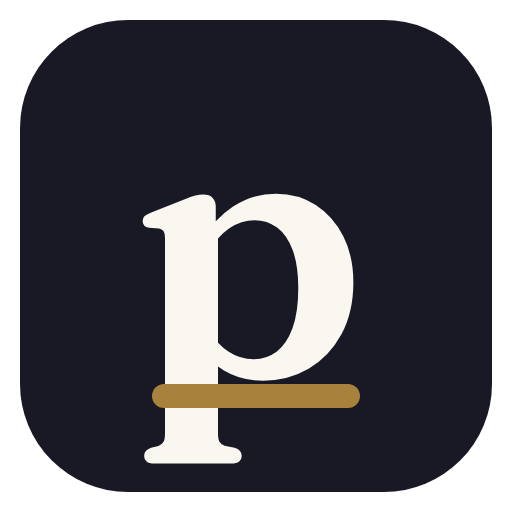
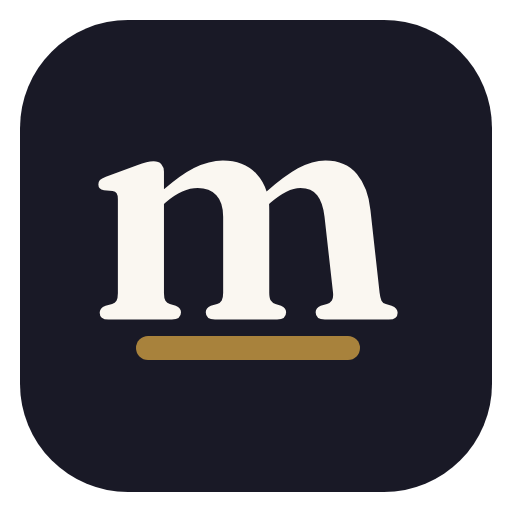
feat(WO-26): rename "Peshi" → "Mukadma" (legaldriver, wave 1)
"Peshi" collided with a live competitor (peshi.app / Bhakha Services) in our exact
vertical. Founder chose "Mukadma" (मुक़दमा = a lawsuit / case). One coordinated
rename while it's cheap. External domain/publicity stay on hold until formal
TM/domain/app-store clearance (tracker B5) — code rename is reversible.

- brand.ts = single source: name "Mukadma", nameDevanagari मुक़दमा, +nameGujarati મુકદમા.
- Metadata + PWA manifest now READ brand.ts (no hardcoded name); login Gujarati
  lockup uses brand.nameGujarati.
- i18n catalogs: Latin brand "Peshi"→"Mukadma", peshi.app→mukadma.app (49 refs).
  IMPORTANT: the Hindi common noun पेशी (= "a hearing", 48 uses) is deliberately
  PRESERVED — only the brand mentions changed. English marketing "peshi" (the word)
  → "hearings" to fully distance from the old name.
- Logo: renamed peshi-mark → brand-mark (name-agnostic); swapped the tile glyph
  p → m (real Fraunces-600 "m", outlined via opentype); rebuilt masters + favicon +
  apple-icon + PWA + maskable + usage sheet. Wordmark auto-updates from brand.ts.
- Fixed mailto: hrefs (were still @peshi.app while the visible text said mukadma).
- Only remaining "Peshi" = the intentional historical note in brand.ts.

Render-verified (nav "m"-tile + "mukadma" wordmark; 512 app icon). Gates green.
Waves 2 (peshi-search repo/Vercel/domain) + 3 (plan docs) are separate — founder.

Claude-Session: https://claude.ai/code/session_01Vvmj9KodoeAZQn3w2EpxH5

Changed region(s): [[0.1875, 0.3125, 0.7812, 0.9062]]

diff --git a/design/logo/icon-render.html b/design/logo/icon-render.html
@@ -1,10 +1,9 @@
 <!doctype html><html><head><meta charset="utf-8"><style>html,body{margin:0;padding:0;background:transparent}#s{display:flex;align-items:center;justify-content:center}</style></head><body><div id="s"></div><script>
-const P="M53.94 51.61L53.94 55.32Q55.96 53.20 58.26 51.65Q63.10 48.41 69.03 48.41Q74.57 48.41 78.94 51.23Q83.31 54.05 85.83 59.06Q88.34 64.06 88.34 70.59Q88.34 78.07 85.36 83.59Q82.37 89.11 77.25 92.14Q72.13 95.17 65.78 95.17Q60.19 95.17 55.87 92.54Q55.16 92.12 54.50 91.65L54.50 108.38Q54.50 109.84 54.90 110.52Q55.30 111.20 56.15 111.44L58.64 111.95Q59.58 112.24 60 112.73Q60.43 113.22 60.43 113.97Q60.43 114.87 59.79 115.39Q59.16 115.90 57.79 115.90L38.57 115.90Q37.25 115.90 36.64 115.39Q36.03 114.87 36.03 113.97Q36.03 113.27 36.46 112.78Q36.88 112.28 37.77 111.95L39.60 111.48Q40.45 111.20 40.85 110.52Q41.25 109.84 41.25 108.38L41.25 59.50Q41.25 58.33 40.90 57.81Q40.54 57.29 39.75 57.15L37.25 56.96Q36.41 56.78 36.03 56.35Q35.66 55.93 35.66 55.27Q35.66 54.47 36.10 54.05Q36.55 53.63 37.82 53.11L46.04 49.87Q47.74 49.16 48.84 48.90Q49.94 48.65 50.79 48.65Q52.39 48.65 53.16 49.47Q53.94 50.29 53.94 51.61M54.50 59.60L54.50 85.68Q55.77 87.04 57.18 87.94Q60.05 89.82 63.39 89.82Q66.63 89.82 69.14 87.94Q71.66 86.06 73.12 82.09Q74.57 78.11 74.57 72Q74.57 66.27 73.16 62.51Q71.75 58.75 69.28 56.89Q66.82 55.04 63.67 55.04Q60.28 55.04 57.32 57.06Q55.87 58.09 54.50 59.60";
+const P="M40.99 42.90L40.99 47.33Q45.25 43.64 48.49 42Q52.30 40.12 55.71 40.12Q61 40.12 64.15 43.48Q65.87 45.32 66.65 47.86Q71.16 43.93 74.48 42.08Q78.09 40.12 81.37 40.12Q86.42 40.12 89.22 43.50Q92.03 46.88 92.61 52.50L94.90 73.20Q95.07 74.56 95.37 75.17Q95.68 75.79 96.46 76.03L97.90 76.44Q98.67 76.73 99.04 77.16Q99.41 77.59 99.41 78.20Q99.41 78.98 98.88 79.43Q98.35 79.89 97.20 79.89L81.21 79.89Q78.91 79.89 78.91 78.08Q78.91 76.97 80.18 76.44L81.74 76.03Q82.56 75.74 82.97 75.13Q83.38 74.51 83.26 73.20L81.13 54.18Q80.72 50.61 79.30 48.81Q77.89 47 75.10 47Q73.46 47 71.61 47.93Q69.77 48.85 67.68 50.61L67.27 50.98Q67.31 51.72 67.31 52.50L67.31 73.20Q67.31 74.56 67.70 75.15Q68.09 75.74 68.87 76.03L70.26 76.44Q71.53 77.02 71.53 78.08Q71.53 79.89 69.28 79.89L53.74 79.89Q51.44 79.89 51.44 78.08Q51.44 76.97 52.71 76.44L54.27 76.03Q55.09 75.74 55.44 75.13Q55.79 74.51 55.79 73.20L55.79 54.18Q55.79 50.57 54.09 48.79Q52.39 47 49.43 47Q47.59 47 45.58 47.86Q43.57 48.73 41.40 50.61L40.99 50.98L40.99 73.33Q40.99 74.60 41.36 75.17Q41.73 75.74 42.46 76.03L43.94 76.44Q45.25 76.97 45.25 78.08Q45.25 79.89 42.96 79.89L27.13 79.89Q25.98 79.89 25.45 79.43Q24.92 78.98 24.92 78.20Q24.92 77.59 25.26 77.16Q25.61 76.73 26.39 76.44L28.03 76.03Q28.77 75.74 29.12 75.17Q29.47 74.60 29.47 73.33L29.47 49.83Q29.47 48.77 29.16 48.32Q28.85 47.86 28.15 47.74L25.98 47.58Q25.24 47.41 24.92 47.04Q24.59 46.68 24.59 46.10Q24.59 45.40 24.98 44.99Q25.37 44.58 26.47 44.17L34.10 41.39Q35.66 40.81 36.60 40.57Q37.54 40.32 38.40 40.32Q39.68 40.32 40.33 41.04Q40.99 41.76 40.99 42.90";
 const q=new URLSearchParams(location.search),size=+(q.get("size")||512),v=q.get("v")||"dark",s=document.getElementById("s");
-s.style.width=size+"px";s.style.height=size+"px";
-let svg;
-if(v==="maskable"){svg='<svg width="'+size+'" height="'+size+'" viewBox="0 0 512 512" xmlns="http://www.w3.org/2000/svg"><rect width="512" height="512" fill="#191926"/><g transform="translate(96 96) scale(2.5)"><path d="'+P+'" fill="#FAF7F1"/><rect x="38" y="96" width="52" height="6" rx="3" fill="#A8823C"/></g></svg>';}
+s.style.width=size+"px";s.style.height=size+"px";let svg;
+if(v==="maskable"){svg='<svg width="'+size+'" height="'+size+'" viewBox="0 0 512 512" xmlns="http://www.w3.org/2000/svg"><rect width="512" height="512" fill="#191926"/><g transform="translate(96 96) scale(2.5)"><path d="'+P+'" fill="#FAF7F1"/><rect x="34" y="84" width="56" height="6" rx="3" fill="#A8823C"/></g></svg>';}
 else{const tile=v==="light"?"#FAF7F1":"#191926",glyph=v==="light"?"#191926":"#FAF7F1",bd=v==="light"?'stroke="#191926" stroke-opacity="0.12" stroke-width="2"':"";
-svg='<svg width="'+size+'" height="'+size+'" viewBox="0 0 128 128" xmlns="http://www.w3.org/2000/svg"><rect x="5" y="5" width="118" height="118" rx="27" fill="'+tile+'" '+bd+'/><path d="'+P+'" fill="'+glyph+'"/><rect x="38" y="96" width="52" height="6" rx="3" fill="#A8823C"/></svg>';}
+svg='<svg width="'+size+'" height="'+size+'" viewBox="0 0 128 128" xmlns="http://www.w3.org/2000/svg"><rect x="5" y="5" width="118" height="118" rx="27" fill="'+tile+'" '+bd+'/><path d="'+P+'" fill="'+glyph+'"/><rect x="34" y="84" width="56" height="6" rx="3" fill="#A8823C"/></svg>';}
 s.innerHTML=svg;document.body.setAttribute("data-ready","1");
 </script></body></html>

diff --git a/src/components/brand-mark.tsx b/src/components/brand-mark.tsx
@@ -1,0 +1,40 @@
+// Brand logo mark — the letter tile (WO-05 / WO-26): a lowercase Fraunces mark
+// letter (outlined, font-independent) over the brass hearing-date underline, in
+// a rounded tile. Name-agnostic filename so a rebrand only swaps the glyph.
+// Two colourways:
+//   tone="light" → paper tile + ink glyph (for dark surfaces)
+//   tone="dark"  → ink tile + paper glyph (for light surfaces / high contrast)
+// The glyph is the real Fraunces 600 letter converted to a path so it renders
+// identically without the font. Purely presentational.
+
+// Fraunces 600 lowercase "m", centred in the 128 viewBox, baseline ~80.
+const GLYPH_PATH =
+  "M40.99 42.90L40.99 47.33Q45.25 43.64 48.49 42Q52.30 40.12 55.71 40.12Q61 40.12 64.15 43.48Q65.87 45.32 66.65 47.86Q71.16 43.93 74.48 42.08Q78.09 40.12 81.37 40.12Q86.42 40.12 89.22 43.50Q92.03 46.88 92.61 52.50L94.90 73.20Q95.07 74.56 95.37 75.17Q95.68 75.79 96.46 76.03L97.90 76.44Q98.67 76.73 99.04 77.16Q99.41 77.59 99.41 78.20Q99.41 78.98 98.88 79.43Q98.35 79.89 97.20 79.89L81.21 79.89Q78.91 79.89 78.91 78.08Q78.91 76.97 80.18 76.44L81.74 76.03Q82.56 75.74 82.97 75.13Q83.38 74.51 83.26 73.20L81.13 54.18Q80.72 50.61 79.30 48.81Q77.89 47 75.10 47Q73.46 47 71.61 47.93Q69.77 48.85 67.68 50.61L67.27 50.98Q67.31 51.72 67.31 52.50L67.31 73.20Q67.31 74.56 67.70 75.15Q68.09 75.74 68.87 76.03L70.26 76.44Q71.53 77.02 71.53 78.08Q71.53 79.89 69.28 79.89L53.74 79.89Q51.44 79.89 51.44 78.08Q51.44 76.97 52.71 76.44L54.27 76.03Q55.09 75.74 55.44 75.13Q55.79 74.51 55.79 73.20L55.79 54.18Q55.79 50.57 54.09 48.79Q52.39 47 49.43 47Q47.59 47 45.58 47.86Q43.57 48.73 41.40 50.61L40.99 50.98L40.99 73.33Q40.99 74.60 41.36 75.17Q41.73 75.74 42.46 76.03L43.94 76.44Q45.25 76.97 45.25 78.08Q45.25 79.89 42.96 79.89L27.13 79.89Q25.98 79.89 25.45 79.43Q24.92 78.98 24.92 78.20Q24.92 77.59 25.26 77.16Q25.61 76.73 26.39 76.44L28.03 76.03Q28.77 75.74 29.12 75.17Q29.47 74.60 29.47 73.33L29.47 49.83Q29.47 48.77 29.16 48.32Q28.85 47.86 28.15 47.74L25.98 47.58Q25.24 47.41 24.92 47.04Q24.59 46.68 24.59 46.10Q24.59 45.40 24.98 44.99Q25.37 44.58 26.47 44.17L34.10 41.39Q35.66 40.81 36.60 40.57Q37.54 40.32 38.40 40.32Q39.68 40.32 40.33 41.04Q40.99 41.76 40.99 42.90";
+
+export function BrandMark({
+  size = 28,
+  tone = "dark",
+  className,
+  title = "Mukadma",
+}: {
+  size?: number;
+  tone?: "light" | "dark";
+  className?: string;
+  title?: string;
+}) {
+  const tile = tone === "light" ? "#FAF7F1" : "#191926";
+  const glyph = tone === "light" ? "#191926" : "#FAF7F1";
+  return (
+    <svg width={size} height={size} viewBox="0 0 128 128" role="img" aria-label={title} className={className}>
+      <rect
+        x="5" y="5" width="118" height="118" rx="27"
+        fill={tile}
+        stroke={tone === "light" ? "#191926" : "none"}
+        strokeOpacity={tone === "light" ? 0.12 : 0}
+        strokeWidth="2"
+      />
+      <path d={GLYPH_PATH} fill={glyph} />
+      <rect x="34" y="84" width="56" height="6" rx="3" fill="#A8823C" />
+    </svg>
+  );
+}

diff --git a/src/app/login/page.tsx b/src/app/login/page.tsx
@@ -1,7 +1,7 @@
 import { getTranslations } from "next-intl/server";
 import { signIn, signUp } from "./actions";
 import { Icon, type IconName } from "@/components/icons";
-import { PeshiMark } from "@/components/peshi-mark";
+import { BrandMark } from "@/components/brand-mark";
 import { brand } from "@/lib/brand";
 
 const TRUST: [IconName, string][] = [
@@ -21,12 +21,12 @@ export default async function LoginPage({
       {/* Brand panel — ink plate, one line of brass. No gradients. */}
       <section className="relative hidden flex-col justify-between overflow-hidden bg-ec-ink p-12 text-ec-paper lg:flex">
         <div className="relative flex items-center gap-2.5">
-          <PeshiMark size={30} tone="light" />
+          <BrandMark size={30} tone="light" />
           <span className="ec-underline font-display text-2xl font-semibold lowercase tracking-tight text-ec-paper">{brand.name}</span>
         </div>
 
         <div className="relative max-w-md">
-          <p lang="gu" className="mb-3 font-display text-7xl font-medium leading-none text-ec-paper/10">પેશી</p>
+          <p lang="gu" className="mb-3 font-display text-7xl font-medium leading-none text-ec-paper/10">{brand.nameGujarati}</p>
           <h1 className="font-display text-4xl font-medium leading-[1.15] text-ec-paper">{t("brand.headline")}</h1>
           <p className="mt-4 text-ec-paper/70">{t("brand.sub")}</p>
           <ul className="mt-8 space-y-3">
@@ -48,7 +48,7 @@ export default async function LoginPage({
       <section className="flex items-center justify-center px-6 py-12">
         <div className="w-full max-w-sm animate-fade-in">
           <div className="mb-8 flex items-center gap-2.5 lg:hidden">
-            <PeshiMark size={30} tone="dark" />
+            <BrandMark size={30} tone="dark" />
             <span className="ec-underline font-display text-2xl font-semibold lowercase tracking-tight text-ec-ink">{brand.name}</span>
           </div>
 

diff --git a/src/components/marketing-shell.tsx b/src/components/marketing-shell.tsx
@@ -1,7 +1,7 @@
 import Link from "next/link";
 import { getTranslations } from "next-intl/server";
 import { brand } from "@/lib/brand";
-import { PeshiMark } from "@/components/peshi-mark";
+import { BrandMark } from "@/components/brand-mark";
 import { LanguageSwitcher } from "@/components/language-switcher";
 
 // Shared chrome for the public secondary pages (legal/company). Editorial
@@ -14,7 +14,7 @@ export async function MarketingShell({ title, subtitle, children }: { title: str
       <header className="border-b border-ec-hair">
         <div className="mx-auto flex max-w-3xl items-center gap-4 px-6 py-4">
           <Link href="/" className="flex items-center gap-2.5">
-            <PeshiMark size={28} tone="dark" />
+            <BrandMark size={28} tone="dark" />
             <span className="ec-underline font-display text-2xl font-semibold lowercase tracking-tight">{brand.name}</span>
           </Link>
           <div className="ml-auto flex items-center gap-3">
@@ -33,7 +33,7 @@ export async function MarketingShell({ title, subtitle, children }: { title: str
       <footer className="border-t border-ec-hair bg-ec-paper-3">
         <div className="mx-auto max-w-3xl px-6 py-8">
           <Link href="/" className="inline-flex items-center gap-2">
-            <PeshiMark size={22} tone="dark" />
+            <BrandMark size={22} tone="dark" />
             <span className="ec-underline font-display text-lg font-semibold lowercase tracking-tight">{brand.name}</span>
           </Link>
           <p className="mt-3 text-[11.5px] leading-relaxed text-ec-ink-3">{tl("footer.compliance")}</p>

diff --git a/src/lib/brand.ts b/src/lib/brand.ts
@@ -1,15 +1,19 @@
-// Brand config (WO-03) — the ONE place the product name/wordmark lives, so
-// nothing user-facing hardcodes it. Name locked to "Peshi" by founder decision
-// B1 (2026-07-03); TM search still advisable before external launch. See
-// plan/brand/BRAND.md.
+// Brand config — the ONE place the product name/wordmark lives, so nothing
+// user-facing hardcodes it. Name = "Mukadma" (मुक़दमा = a lawsuit / case),
+// founder decision 2026-07-03, replacing "Peshi" after a name collision with a
+// live competitor at peshi.app. Formal IP-India TM (class 9/42/45) + domain +
+// app-store clearance still pending before external launch — see WO-26 /
+// tracker B5. Keep this the single source; never hardcode the name elsewhere.
 export const brand = {
-  /** Product name — locked (tracker B1, 2026-07-03). */
-  name: "Peshi",
-  /** Devanagari lockup (पेशी = a hearing / one's court date). */
-  nameDevanagari: "पेशी",
+  /** Product name (canonical romanization = "Mukadma" per brand/NAMING.md). */
+  name: "Mukadma",
+  /** Devanagari lockup (मुक़दमा = a lawsuit / case). */
+  nameDevanagari: "मुक़दमा",
+  /** Gujarati lockup. */
+  nameGujarati: "મુકદમા",
   /** One-liner; canonical copy in BRAND.md. */
   tagline: "The operating system for Indian lawyers.",
-  /** Name is decided — Wave 4 (landing + full brand application) is unblocked. */
+  /** Design/wordmark applied. External launch still gated on TM/domain clearance (B5). */
   isFinal: true,
 } as const;
 

diff --git a/src/components/landing.tsx b/src/components/landing.tsx
@@ -2,7 +2,7 @@ import Link from "next/link";
 import { getTranslations } from "next-intl/server";
 import { brand } from "@/lib/brand";
 import { Icon } from "@/components/icons";
-import { PeshiMark } from "@/components/peshi-mark";
+import { BrandMark } from "@/components/brand-mark";
 import { LanguageSwitcher } from "@/components/language-switcher";
 
 // Public marketing landing (WO-03 Wave 4), from design/ui-concept.html Mockup A.
@@ -35,7 +35,7 @@ export async function Landing() {
       {/* nav */}
       <nav className="mx-auto flex max-w-6xl items-center gap-6 px-6 py-4">
         <span className="flex items-center gap-2.5">
-          <PeshiMark size={30} tone="dark" />
+          <BrandMark size={30} tone="dark" />
           <span className="ec-underline font-display text-2xl font-semibold lowercase tracking-tight">{brand.name}</span>
         </span>
         <div className="ml-6 hidden gap-1 sm:flex">
@@ -141,7 +141,7 @@ export async function Landing() {
         <div className="mx-auto flex max-w-6xl flex-wrap gap-8 px-6 py-10">
           <div className="max-w-xs">
             <span className="flex items-center gap-2">
-              <PeshiMark size={24} tone="dark" />
+              <BrandMark size={24} tone="dark" />
               <span className="ec-underline font-display text-xl font-semibold lowercase tracking-tight">{brand.name}</span>
             </span>
             <p className="mt-3 text-[13px] leading-relaxed text-ec-ink-3">{t("footer.tagline")}</p>

diff --git a/src/app/dashboard/layout.tsx b/src/app/dashboard/layout.tsx
@@ -6,7 +6,7 @@ import { NavLinks } from "./nav";
 import { MobileNav } from "./mobile-nav";
 import { CommandPalette } from "@/components/command-palette";
 import { LanguageSwitcher } from "@/components/language-switcher";
-import { PeshiMark } from "@/components/peshi-mark";
+import { BrandMark } from "@/components/brand-mark";
 import { brand } from "@/lib/brand";
 
 export default async function DashboardLayout({ children }: { children: React.ReactNode }) {
@@ -28,8 +28,8 @@ export default async function DashboardLayout({ children }: { children: React.Re
     <div className="flex min-h-screen bg-ec-paper text-ec-ink">
       <aside className="sticky top-0 hidden h-screen w-64 shrink-0 flex-col border-r border-ec-hair bg-ec-paper px-4 py-5 md:flex">
         <div className="flex items-center gap-2.5 px-2">
-          {/* Mark (the "p" tile) + typographic wordmark — the "date underline" motif. */}
-          <PeshiMark size={32} tone="dark" className="shrink-0" />
+          {/* Brand mark (letter tile) + typographic wordmark — the "date underline" motif. */}
+          <BrandMark size={32} tone="dark" className="shrink-0" />
           <div className="leading-tight">
             <p className="ec-underline inline-block font-display text-2xl font-semibold lowercase tracking-tight text-ec-ink">
               {brand.name}

diff --git a/src/app/data-corrections/page.tsx b/src/app/data-corrections/page.tsx
@@ -1,7 +1,7 @@
 import { MarketingShell, Prose, DraftNotice } from "@/components/marketing-shell";
 import { getTranslations } from "next-intl/server";
 
-export const metadata = { title: "Data corrections & takedowns · Peshi" };
+export const metadata = { title: "Data corrections & takedowns · Mukadma" };
 
 // Compliance-critical: the correction/takedown workflow (07-COMPLIANCE §3).
 export default async function DataCorrectionsPage() {
@@ -20,7 +20,7 @@ export default async function DataCorrectionsPage() {
         </ul>
 
         <h2>{t("howToRaise.heading")}</h2>
-        <p>{t.rich("howToRaise.body", { email: (c) => <a href="mailto:grievance@peshi.app">{c}</a> })}</p>
+        <p>{t.rich("howToRaise.body", { email: (c) => <a href="mailto:grievance@mukadma.app">{c}</a> })}</p>
 
         <h2>{t("whatHappensNext.heading")}</h2>
         <ul>
@@ -33,7 +33,7 @@ export default async function DataCorrectionsPage() {
         <p>{t.rich("howWeAct.body", { b: (c) => <strong>{c}</strong> })}</p>
 
         <h2>{t("grievanceOfficer.heading")}</h2>
-        <p>{t.rich("grievanceOfficer.body", { email: (c) => <a href="mailto:grievance@peshi.app">{c}</a> })}</p>
+        <p>{t.rich("grievanceOfficer.body", { email: (c) => <a href="mailto:grievance@mukadma.app">{c}</a> })}</p>
       </Prose>
     </MarketingShell>
   );

diff --git a/design/logo/usage.html b/design/logo/usage.html
@@ -61,9 +61,9 @@
 
   <h2>Files</h2>
   <ul>
-    <li><b>In-app:</b> <code>&lt;PeshiMark tone="dark|light" size /&gt;</code> — renders live Fraunces via <code>var(--f-display)</code>. Wired into nav, marketing header/footer, landing, login.</li>
+    <li><b>In-app:</b> <code>&lt;BrandMark tone="dark|light" size /&gt;</code> — renders live Fraunces via <code>var(--f-display)</code>. Wired into nav, marketing header/footer, landing, login.</li>
     <li><b>Icons (reliable raster source):</b> <code>public/icons/{favicon-16,32,48, icon-192, icon-512, icon-maskable-512}.png</code> + <code>src/app/{icon,apple-icon}.png</code> + <code>src/app/manifest.ts</code>.</li>
-    <li><b>Masters:</b> <code>public/logo/peshi-mark-{dark,light,mono}.svg</code> — the “p” uses <code>font-family:Fraunces</code>; <b>outline the glyph</b> (fonttools/Illustrator) before any external handoff or print.</li>
+    <li><b>Masters:</b> <code>public/logo/brand-mark-{dark,light,mono}.svg</code> — the “p” uses <code>font-family:Fraunces</code>; <b>outline the glyph</b> (fonttools/Illustrator) before any external handoff or print.</li>
     <li><b>Wordmark:</b> Fraunces, lowercase, semibold, with the brass hearing-date underline (<code>.ec-underline</code>).</li>
   </ul>
 </div></body></html>

diff --git a/src/app/layout.tsx b/src/app/layout.tsx
@@ -2,6 +2,7 @@ import type { Metadata } from "next";
 import { Inter, Fraunces, Noto_Sans_Devanagari, Noto_Sans_Gujarati } from "next/font/google";
 import { NextIntlClientProvider } from "next-intl";
 import { getLocale, getMessages } from "next-intl/server";
+import { brand } from "@/lib/brand";
 import "./globals.css";
 
 const sans = Inter({ subsets: ["latin"], variable: "--font-sans", display: "swap" });
@@ -26,14 +27,14 @@ const notoGuj = Noto_Sans_Gujarati({
 });
 
 export const metadata: Metadata = {
-  title: "Peshi — the operating system for Indian lawyers",
+  title: `${brand.name} — ${brand.tagline.replace(/\.$/, "")}`,
   description:
     "Track cases by CNR, get tomorrow's cause list on WhatsApp before 8pm, and run your whole practice — built for Indian courts.",
   openGraph: {
-    title: "Peshi — the operating system for Indian lawyers",
+    title: `${brand.name} — ${brand.tagline.replace(/\.$/, "")}`,
     description:
       "Cause lists, cases, clients and invoices — synced from the court record by CNR. Built for Indian courts, free to begin.",
-    siteName: "Peshi",
+    siteName: brand.name,
     locale: "en_IN",
     type: "website",
   },

diff --git a/src/app/contact/page.tsx b/src/app/contact/page.tsx
@@ -2,7 +2,7 @@ import { getTranslations } from "next-intl/server";
 
 import { MarketingShell, Prose } from "@/components/marketing-shell";
 
-export const metadata = { title: "Contact · Peshi" };
+export const metadata = { title: "Contact · Mukadma" };
 
 export default async function ContactPage() {
   const t = await getTranslations("contact");
@@ -13,13 +13,13 @@ export default async function ContactPage() {
           <li>
             {t.rich("support", {
               b: (c) => <strong>{c}</strong>,
-              mail: (c) => <a href="mailto:hello@peshi.app">{c}</a>,
+              mail: (c) => <a href="mailto:hello@mukadma.app">{c}</a>,
             })}
           </li>
           <li>
             {t.rich("grievances", {
               b: (c) => <strong>{c}</strong>,
-              mail: (c) => <a href="mailto:grievance@peshi.app">{c}</a>,
+              mail: (c) => <a href="mailto:grievance@mukadma.app">{c}</a>,
               corrections: (c) => <a href="/data-corrections">{c}</a>,
             })}
           </li>

diff --git a/src/app/privacy/page.tsx b/src/app/privacy/page.tsx
@@ -1,7 +1,7 @@
 import { MarketingShell, Prose, DraftNotice } from "@/components/marketing-shell";
 import { getTranslations } from "next-intl/server";
 
-export const metadata = { title: "Privacy · Peshi" };
+export const metadata = { title: "Privacy · Mukadma" };
 
 export default async function PrivacyPage() {
   const t = await getTranslations("privacy");
@@ -26,7 +26,7 @@ export default async function PrivacyPage() {
         <p>
           {t.rich("rightsBody", {
             corrections: (c) => <a href="/data-corrections">{c}</a>,
-            email: (c) => <a href="mailto:grievance@peshi.app">{c}</a>,
+            email: (c) => <a href="mailto:grievance@mukadma.app">{c}</a>,
           })}
         </p>
 
